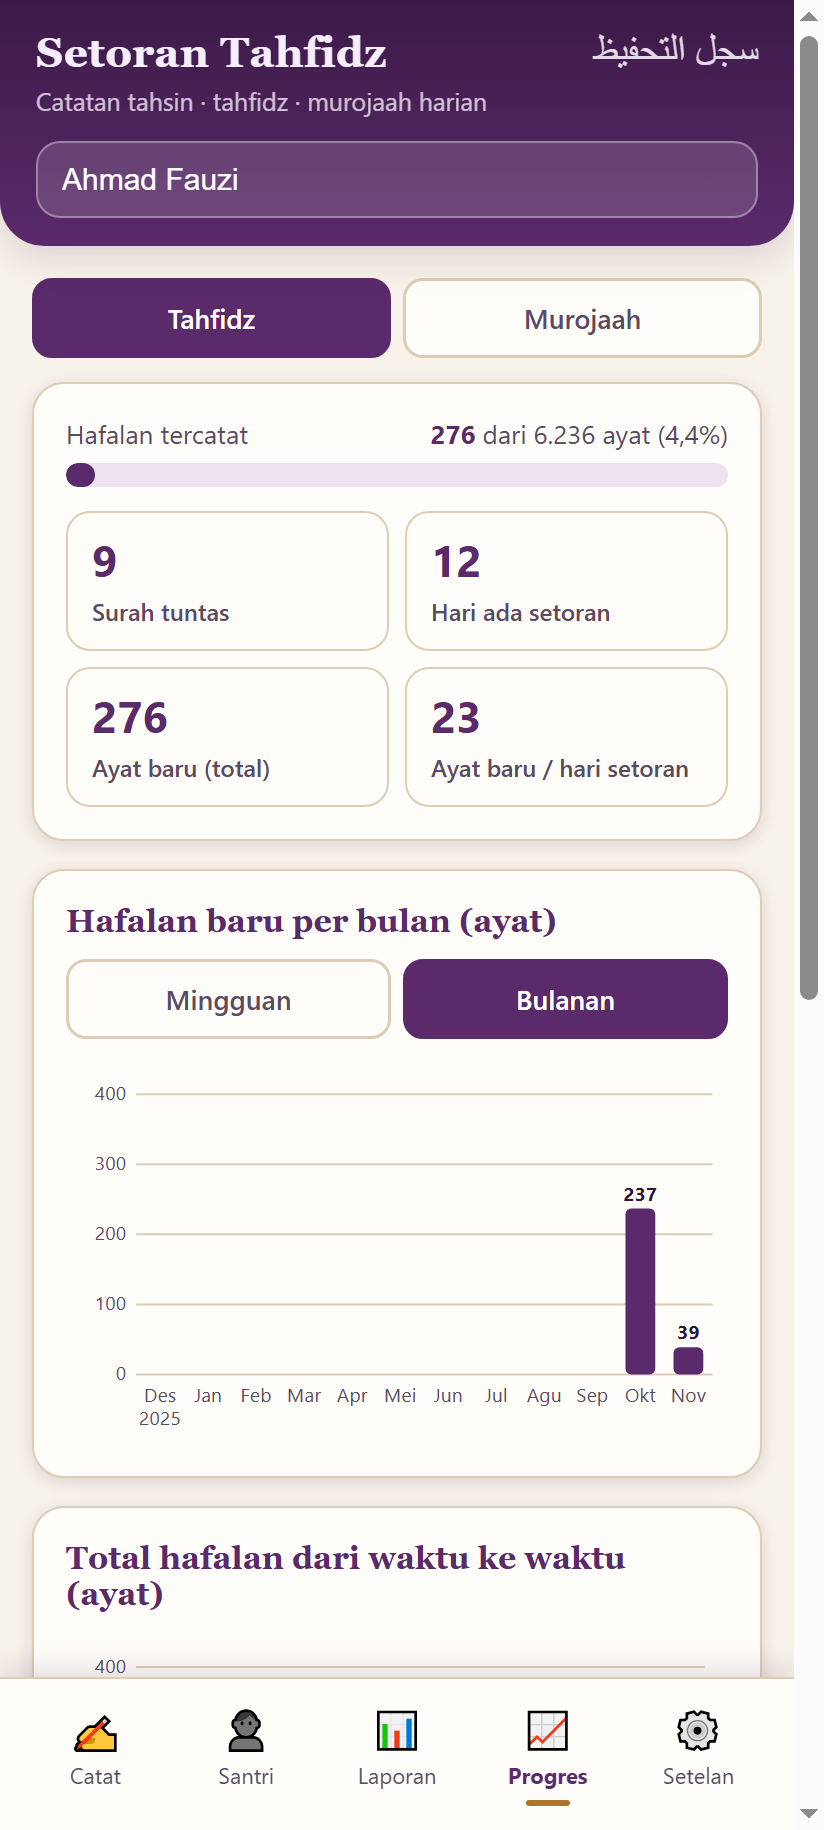
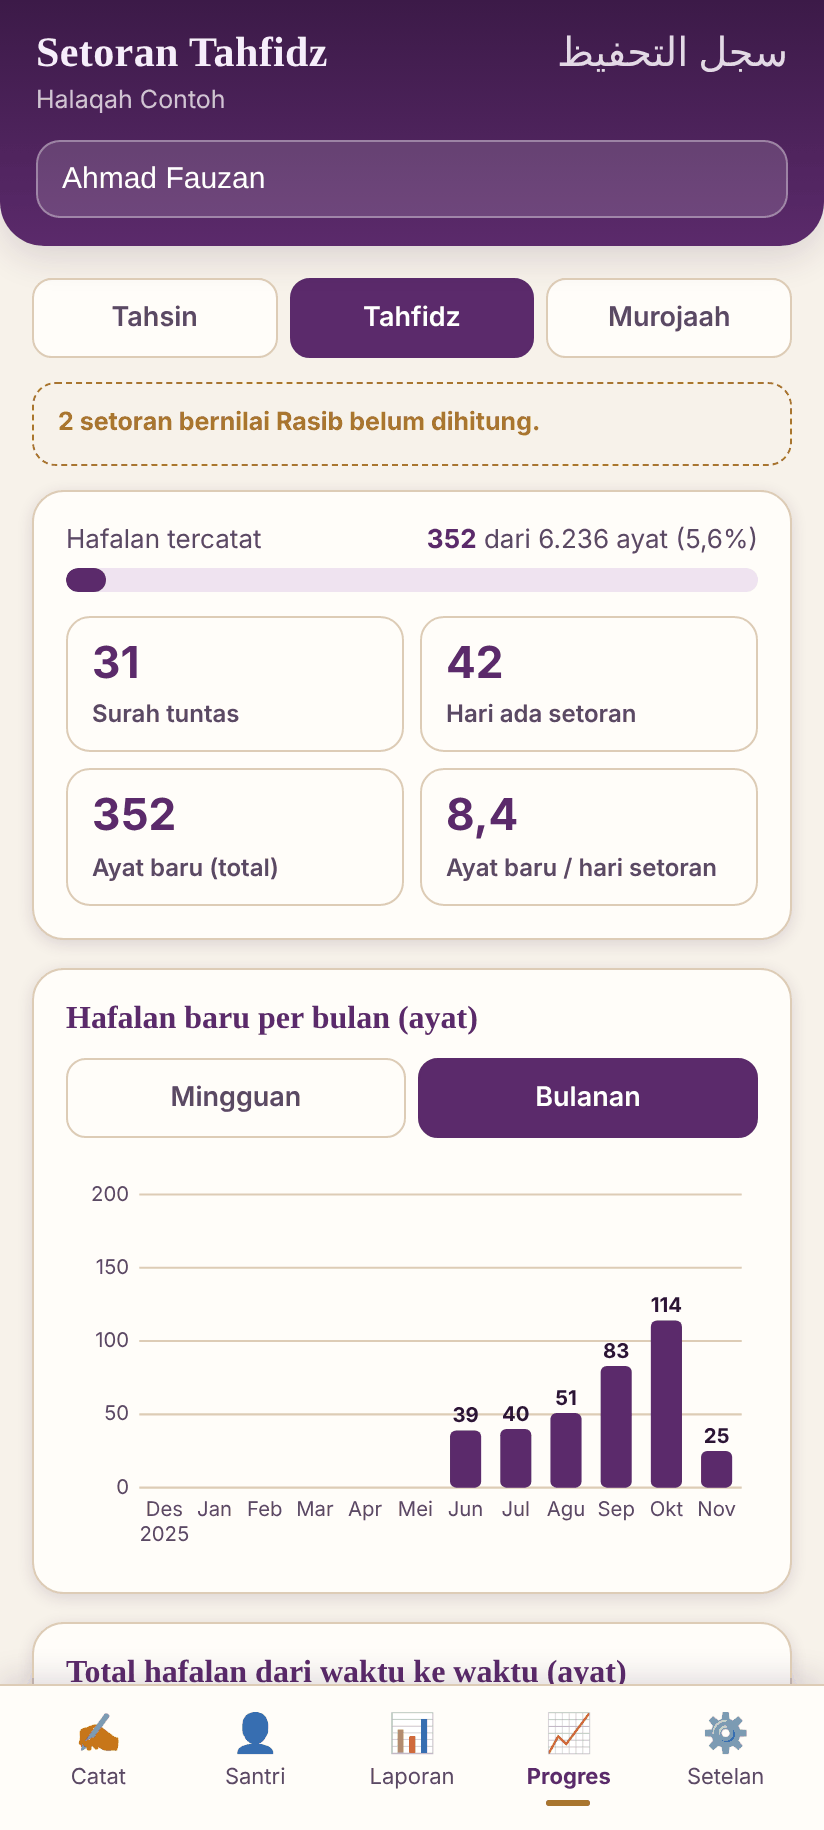
Perbarui README untuk v1.2.0 dan tangkapan layar terbaru
- Tulis ulang README untuk guru: fitur dikelompokkan, cara pakai singkat,
  tabel nilai kelancaran, aturan perhitungan Progres, data dan privasi.
- Perbaiki tabel tangkapan layar (5 gambar, 4 judul kolom) dan ganti semua
  tangkapan layar dengan tampilan v1.2.0 (data fiktif), tambah contoh
  gambar laporan dan sebaran nilai.
- Pindahkan panduan Google Play ke docs/PLAY_STORE.md.
- Tambah bagian tes dan alur rilis (versionCode 1.2.0 -> 120) untuk pengembang.

Claude-Session: https://claude.ai/code/session_014gCVuLcPiL3Dco5abXn4Uk

Changed region(s): [[0.0, 0.0, 1.0, 0.9967], [0.0303, 0.0, 0.5765, 0.0623], [0.6978, 0.218, 0.8799, 0.2492]]

diff --git a/README.md b/README.md
@@ -1,48 +1,121 @@
 # Setoran Tahfidz
 
-[Unduh APK terbaru](https://github.com/abujafar-arsyad/setoran-tahfidz/releases/latest)
+Aplikasi Android untuk **guru tahfidz** mencatat setoran hafalan Al-Qur'an
+santri setiap hari: tahsin, tahfidz, dan murojaah, lengkap dengan nilai
+kelancaran, laporan bulanan, dan diagram progres hafalan.
 
-**Setoran Tahfidz** membantu santri mencatat setoran hafalan Al-Qur'an.
-Aplikasi berjalan secara offline dan menyimpan data di `localStorage`
-perangkat, tanpa backend atau koneksi internet.
+Aplikasi berjalan **sepenuhnya offline**. Tidak perlu akun, tidak ada iklan,
+dan data tidak pernah dikirim ke server mana pun.
 
-Aplikasi web-nya ada di `www/index.html` dan dibungkus menjadi aplikasi
-Android dengan [Capacitor](https://capacitorjs.com/). Proyek ini bisa
-dibangun menjadi APK untuk pengujian atau AAB untuk Google Play Store.
-
-- **Nama tampilan:** Setoran Tahfidz
-- **Application ID:** `id.tahfidz.setoran`
-- **Web dir:** `www/`
-- **Native project:** `android/`
-
-## Fitur
-
-- **Catat setoran harian:** tahsin, tahfidz, murojaah, dan keterangan (Izin, Sakit, Ghoib), dengan navigasi per tanggal. Rentang ayat diisi per baris (bisa lebih dari satu) dan divalidasi dengan jumlah ayat tiap surah; catatan Iqro tetap berupa teks bebas dan tidak dibaca Progres.
-- **Nilai kelancaran:** beri nilai Mumtaz, Jayyid Jiddan, Jayyid, Maqbul, atau Rasib untuk tiap kategori setoran; laporan menampilkan nilai, dan Rasib tidak dihitung dalam progres ayat.
-- **Kelola santri:** tambah, ganti nama, dan hapus santri.
-- **Laporan bulanan:** tabel per bulan dengan total, bisa diunduh sebagai gambar dan diberi watermark lembaga.
-- **Progres:** diagram perkembangan hafalan per santri, dibaca dari rentang ayat terstruktur (surah + ayat awal sampai surah + ayat akhir, bisa lintas surah, mis. Al-Baqarah 200 → Ali 'Imran 23; teks lama tetap terbaca): total ayat dan surah tuntas, hafalan baru per minggu atau bulan, serta total dari waktu ke waktu. Ada juga progres per juz (30 juz, Mushaf Madinah/Hafs; rentang lintas surah/juz dipecah per ayat). Penulisan ayat yang di luar jumlah ayat surah tidak dihitung dan ditandai.
-- **Setelan:** mode terang, gelap, atau otomatis; lima warna tema; ukuran teks; saran nama surah; pengingat cadangan.
-- **Cadangan data:** ekspor dan impor data sebagai file JSON.
-- **Offline:** data tersimpan di perangkat dan aplikasi tidak butuh koneksi internet.
+**[⬇ Unduh APK terbaru](https://github.com/abujafar-arsyad/setoran-tahfidz/releases/latest)** · versi saat ini: 1.2.0 (uji coba) · [Riwayat rilis](https://github.com/abujafar-arsyad/setoran-tahfidz/releases)
 
 ## Tangkapan layar
 
 Semua nama dan catatan pada gambar ini fiktif.
 
-| Catat | Santri | Laporan | Setelan |
-| --- | --- | --- | --- |
-| <img src="docs/screenshots/catat.png" alt="Halaman Catat: form setoran harian" width="200"> | <img src="docs/screenshots/santri.png" alt="Halaman Santri: daftar santri" width="200"> | <img src="docs/screenshots/laporan.png" alt="Halaman Laporan: tabel bulanan" width="200"> | <img src="docs/screenshots/progres.png" alt="Halaman Progres: diagram perkembangan hafalan" width="200"> | <img src="docs/screenshots/setelan.png" alt="Halaman Setelan: tampilan dan lembaga" width="200"> |
+| Catat | Laporan | Progres | Sebaran nilai |
+| :---: | :---: | :---: | :---: |
+| <img src="docs/screenshots/catat.png" alt="Halaman Catat: rentang ayat dan nilai kelancaran" width="200"> | <img src="docs/screenshots/laporan.png" alt="Halaman Laporan: tabel bulanan dengan label nilai" width="200"> | <img src="docs/screenshots/progres.png" alt="Halaman Progres: ringkasan dan diagram hafalan per bulan" width="200"> | <img src="docs/screenshots/progres-nilai.png" alt="Halaman Progres: sebaran nilai per bulan dan progres per juz" width="200"> |
+
+| Santri | Setelan | Gambar laporan (untuk wali santri) |
+| :---: | :---: | :---: |
+| <img src="docs/screenshots/santri.png" alt="Halaman Santri: daftar santri" width="200"> | <img src="docs/screenshots/setelan.png" alt="Halaman Setelan: tampilan, lembaga, dan laporan" width="200"> | <img src="docs/screenshots/laporan-gambar.png" alt="Contoh gambar laporan bulanan yang diunduh" width="300"> |
+
+## Fitur
+
+**Pencatatan harian**
+- Catat tahsin, tahfidz, murojaah, dan keterangan (Izin, Sakit, Ghoib) per tanggal.
+- Rentang ayat diisi per baris: surah dan ayat awal sampai surah dan ayat akhir. Bisa lebih dari satu baris, dan bisa lintas surah (mis. Al-Baqarah 200 → Ali 'Imran 23).
+- Ayat boleh dikosongkan: surah tanpa nomor ayat dihitung satu surah penuh.
+- Nama surah muncul sebagai saran saat mengetik, dan jumlah ayat dicek otomatis (mis. Al-Ikhlas hanya 1–4).
+- Catatan Iqro atau buku lain tetap bisa ditulis sebagai teks bebas.
+
+**Nilai kelancaran**
+- Setiap kategori setoran bisa diberi nilai (tidak wajib):
+
+  | Singkatan | Nilai | | Keterangan |
+  | :---: | --- | :---: | --- |
+  | M | Mumtaz | ممتاز | lulus |
+  | JJ | Jayyid Jiddan | جيد جدا | lulus |
+  | J | Jayyid | جيد | lulus |
+  | Mq | Maqbul | مقبول | lulus |
+  | R | Rasib | راسب | belum lulus |
+
+- Nilai tampil sebagai label berwarna di tabel Laporan dan di gambar laporan.
+
+**Laporan bulanan**
+- Tabel per bulan dengan total Hadir, Izin, Sakit, dan Ghoib. Ketuk satu hari untuk mengedit.
+- Unduh sebagai gambar untuk dikirim ke wali santri, lengkap dengan nama lembaga, nama pengajar, rekap nilai, dan watermark lembaga (opsional).
+
+**Progres hafalan**
+- Ringkasan per santri: ayat tercatat dari 6.236 ayat, surah tuntas, hari setoran, dan rata-rata ayat per hari.
+- Diagram hafalan baru per pekan atau per bulan, total dari waktu ke waktu, dan sebaran nilai per bulan.
+- Progres per surah dan per juz (30 juz, Mushaf Madinah riwayat Hafs).
+- Bisa dilihat untuk Tahsin, Tahfidz, atau Murojaah, dan diunduh sebagai satu gambar.
+
+**Setelan dan data**
+- Mode terang, gelap, atau otomatis; lima warna tema; empat ukuran teks; halaman awal saat aplikasi dibuka.
+- Ekspor dan impor cadangan data (file JSON), plus pengingat cadangan berkala.
+
+## Cara pakai singkat
+
+1. **Tab Santri:** tambahkan nama santri.
+2. **Tab Catat:** pilih santri dan tanggal, isi rentang ayat untuk tahsin, tahfidz, atau murojaah, beri nilai bila perlu, lalu ketuk **Simpan Setoran**.
+3. **Tab Laporan:** lihat rekap bulanan. Ketuk **Unduh Laporan (Gambar)** untuk membuat gambar laporan yang bisa dikirim ke wali santri.
+4. **Tab Progres:** pantau perkembangan hafalan tiap santri. Ketuk **Unduh Progres** untuk menyimpannya sebagai gambar.
+5. **Tab Setelan:** isi nama lembaga dan pengajar, dan ketuk **Ekspor Data** secara rutin untuk mencadangkan data.
+
+## Cara Progres menghitung
+
+- Angka dihitung dari rentang ayat yang dicatat. Ayat yang disetor ulang tidak menambah total hafalan.
+- Setoran Tahfidz bernilai **Rasib** tidak dihitung sampai disetor ulang dengan nilai lulus (atau tanpa nilai).
+- Murojaah dan Tahsin bernilai Rasib tidak masuk total ayat, tetapi harinya tetap terhitung sebagai hari setoran.
+- Catatan Iqro, nomor halaman, atau tulisan seperti "Juz 30 halaman 3" tidak bisa dibaca sebagai ayat. Progres akan menampilkan peringatan untuk catatan seperti ini.
+- Hafalan santri sebelum memakai aplikasi ini tidak ikut terhitung.
+
+## Data dan privasi
+
+- Semua data tersimpan **hanya di HP ini** (`localStorage`). Tidak ada server, akun, iklan, atau pelacak.
+- Cadangan otomatis Android dimatikan, sehingga data **ikut terhapus** bila aplikasi di-uninstall atau datanya dihapus. Karena itu, ekspor cadangan secara rutin dari tab Setelan.
+- Untuk pindah HP, ekspor cadangan di HP lama lalu impor di HP baru.
+- Aplikasi tidak meminta izin khusus apa pun, termasuk izin internet.
+
+Selengkapnya: [Kebijakan Privasi](PRIVACY_POLICY.md).
 
 ## Tentang proyek
 
-- **Pemilik:** Abu Ja'far Putra Arsad
-- **Peran saya:** Saya menentukan fitur dan menguji aplikasi ini. Kode ditulis dengan bantuan AI.
-- **Status:** Uji coba. Aplikasi tersedia sebagai APK debug dan belum dirilis ke Google Play.
-- **Privasi:** aplikasi tidak mengumpulkan data pengguna. Lihat [PRIVACY_POLICY.md](PRIVACY_POLICY.md).
+- **Pemilik:** Abu Ja'far Putra Arsad, pengajar tahfidz Al-Qur'an
+- **Peran saya:** menentukan fitur dan menguji aplikasi ini. Kode ditulis dengan bantuan AI.
+- **Status:** uji coba. Tersedia sebagai APK debug dan belum dirilis ke Google Play.
 - **Lisensi:** [MIT](LICENSE)
 
-## Menjalankan di browser
+---
+
+## Untuk pengembang
+
+Aplikasi web-nya ada di satu file, `www/index.html`, dan dibungkus menjadi
+aplikasi Android dengan [Capacitor](https://capacitorjs.com/).
+
+- **Application ID:** `id.tahfidz.setoran`
+- **Web dir:** `www/`
+- **Native project:** `android/`
+
+### Struktur proyek
+
+```
+www/index.html           # Aplikasi web (HTML + CSS + JS dalam satu file)
+tests/                   # Tes logika rentang ayat, progres, dan nilai (npm test)
+docs/screenshots/        # Tangkapan layar untuk README
+docs/PLAY_STORE.md       # Panduan rilis ke Google Play Store
+capacitor.config.json    # Konfigurasi Capacitor (appId, appName, webDir)
+android/                 # Proyek Android native
+assets-src/              # Sumber gambar ikon & splash (generate_icon.py)
+resources/               # Input untuk @capacitor/assets
+release-signing/         # Panduan membuat upload keystore & signing config
+PRIVACY_POLICY.md        # Kebijakan privasi
+```
+
+### Menjalankan di browser
 
 `www/index.html` bisa dibuka langsung di browser:
 
@@ -56,49 +129,22 @@ Jika browser membatasi akses melalui `file://`, jalankan server lokal:
 npx serve www
 ```
 
-## Struktur proyek
-
-```
-www/index.html          # Aplikasi web (HTML+CSS+JS inline, self-contained)
-capacitor.config.json    # Konfigurasi Capacitor (appId, appName, webDir)
-android/                 # Proyek Android native (dibuat oleh `npx cap add android`)
-assets-src/              # Source gambar 1024x1024 untuk ikon & splash (generate_icon.py)
-resources/               # Input untuk @capacitor/assets (icon.png, splash.png, dst.)
-release-signing/         # Panduan membuat upload keystore & signing config (README.md)
-PRIVACY_POLICY.md        # Kebijakan privasi (dibutuhkan untuk Play Store)
-```
-
-## Setup awal
-
-Perintah berikut sudah dijalankan untuk menyiapkan proyek. Jalankan lagi
-jika ingin mengulang setup:
+### Tes
 
 ```powershell
-npm install
-npx cap init "Setoran Tahfidz" "id.tahfidz.setoran" --web-dir www
-npx cap add android
-npx capacitor-assets generate --android   # dari resources/icon.png & resources/splash.png
+npm test
 ```
 
-## Membuka proyek di Android Studio
+Jalankan sebelum setiap rilis. Semua tes harus lulus.
 
-1. Install [Android Studio](https://developer.android.com/studio), termasuk
-   Android SDK dan JDK yang kompatibel.
-2. Di Android Studio, pilih **File → Open** lalu buka folder `android/`.
-3. Tunggu proses Gradle sync selesai.
-4. Klik **Run ▶** untuk menjalankan aplikasi di emulator atau perangkat.
-   Gunakan menu **Build** untuk membuat APK atau AAB.
-
-Setelah mengubah `www/index.html`, jalankan `npx cap sync android` agar
-perubahannya disalin ke `android/app/src/main/assets/public`.
-
-## Membuat Debug APK
+### Membuat Debug APK
 
 Gunakan JDK 21 dan Android SDK dengan build-tools serta platform yang sesuai
 `android/variables.gradle` (saat ini `compileSdk`/`targetSdk` 36 dan
 `minSdk` 24).
 
 ```powershell
+npx cap sync android
 cd android
 $env:JAVA_HOME = "<path ke JDK 21>"
 .\gradlew.bat assembleDebug
@@ -106,10 +152,18 @@ $env:JAVA_HOME = "<path ke JDK 21>"
 
 Output: `android/app/build/outputs/apk/debug/app-debug.apk`
 
-Build ini telah berhasil dijalankan di lingkungan pengembangan proyek dengan
-JDK Temurin 21 dan Android SDK build-tools 35/36.
+`npx cap sync android` wajib dijalankan setiap kali `www/index.html` berubah,
+agar perubahannya disalin ke `android/app/src/main/assets/public`.
 
-## Membuat Release AAB
+### Alur rilis
+
+1. Naikkan versi di `android/app/build.gradle`. Polanya: `versionName "1.2.0"` → `versionCode 120`.
+2. Jalankan `npm test`, lalu build APK seperti di atas.
+3. Buat GitHub Release dengan tag `vX.Y.Z-debug` dari `main`, unggah APK
+   bernama `setoran-tahfidz-vX.Y.Z-debug.apk`, dan tandai sebagai
+   **Latest release** agar tautan unduh di atas ikut berpindah.
+
+### Membuat Release AAB
 
 Google Play mewajibkan **Android App Bundle (.aab)** yang ditandatangani
 dengan upload key milik Anda. Ikuti petunjuk di `release-signing/README.md`
@@ -125,52 +179,22 @@ Output: `android/app/build/outputs/bundle/release/app-release.aab`
 > Keystore tidak disertakan di repo dan jangan di-commit. Buat keystore
 > sendiri dan simpan dengan aman.
 
-## Rilis ke Google Play Store
+Langkah lengkap ke Google Play ada di [docs/PLAY_STORE.md](docs/PLAY_STORE.md).
 
-Ikuti langkah berikut untuk menyiapkan aplikasi:
+### Membuka proyek di Android Studio
 
-1. Buat akun developer di [Google Play Console](https://play.google.com/console/).
-   Biaya pendaftaran satu kali sebesar **USD 25** dan verifikasi identitas
-   berlaku.
-2. Pilih **Create app**, lalu isi nama "Setoran Tahfidz", bahasa Indonesia,
-   kategori (misalnya Pendidikan/Education), dan status gratis (Free).
-3. Lengkapi Store Listing:
-   - Deskripsi singkat maksimal 80 karakter dan deskripsi lengkap maksimal
-     4000 karakter, dalam Bahasa Indonesia. Jelaskan pencatatan setoran,
-     penyimpanan lokal/offline, serta bahwa aplikasi tidak memakai iklan
-     atau akun.
-   - Minimal **2 screenshot ponsel** dalam format PNG/JPEG, rasio 16:9 atau
-     portrait, sisi terpanjang 320–3840 px. Ambil screenshot dari emulator
-     atau perangkat.
-   - **Feature graphic** berukuran 1024x500 px.
-   - Ikon listing berukuran 512x512 px. Ekspor `assets-src/icon-1024.png`
-     lalu ubah ukurannya; ikon adaptif hasil build tidak menggantikan ikon
-     listing ini.
-4. Isi **Content Rating Questionnaire** sesuai kondisi aplikasi untuk
-   mendapatkan rating usia.
-5. Isi **Data Safety form** sesuai perilaku aplikasi: data tidak dikumpulkan
-   atau dibagikan dan hanya tersimpan di perangkat (`localStorage`), tanpa
-   dikirim ke server. Gunakan `PRIVACY_POLICY.md` sebagai referensi.
-6. Publikasikan `PRIVACY_POLICY.md` di halaman web publik, misalnya GitHub
-   Pages atau hosting statis lain. Masukkan URL-nya di **App content →
-   Privacy Policy**.
-7. Mulai dari **Internal testing** melalui **Release → Testing → Internal
-   testing → Create new release**, lalu tambahkan email penguji.
-8. Unggah `app-release.aab` hasil `bundleRelease` yang sudah ditandatangani.
-9. Lengkapi rollout dan release notes, lalu kirim untuk ditinjau Google.
-   Setelah pengujian internal, Anda bisa mempromosikan rilis ke **Production**;
-   rilis ini juga perlu ditinjau Google.
+1. Install [Android Studio](https://developer.android.com/studio), termasuk
+   Android SDK dan JDK yang kompatibel.
+2. Pilih **File → Open** lalu buka folder `android/`.
+3. Tunggu proses Gradle sync selesai, lalu klik **Run ▶** untuk menjalankan
+   aplikasi di emulator atau perangkat.
 
-Pembuatan akun, verifikasi identitas, pembayaran, screenshot dari perangkat,
-dan persetujuan rilis harus dilakukan sendiri melalui akun Google Play Console.
-
-## Ikon dan splash screen
+### Ikon dan splash screen
 
 Ikon dan splash screen saat ini masih placeholder: latar ungu plum
 (`#5b2a6b`), motif buku terbuka, tanda centang emas, dan monogram "ST".
 File dibuat oleh `assets-src/generate_icon.py` (Python + Pillow), lalu
-`@capacitor/assets` menghasilkan ikon mipmap ldpi–xxxhdpi, adaptive icon,
-serta splash screen untuk berbagai densitas dan orientasi.
+`@capacitor/assets` menghasilkan ikon untuk semua densitas.
 
 Untuk memakai desain sendiri, ganti `resources/icon.png`,
 `resources/icon-foreground.png`, `resources/icon-background.png`, dan
@@ -179,8 +203,3 @@ Untuk memakai desain sendiri, ganti `resources/icon.png`,
 ```powershell
 npx capacitor-assets generate --android
 ```
-
-## Izin aplikasi
-
-Aplikasi ini tidak meminta izin khusus. Karena berjalan offline,
-`AndroidManifest.xml` tidak berisi izin `INTERNET` atau izin lainnya.

diff --git a/docs/PLAY_STORE.md b/docs/PLAY_STORE.md
@@ -1,0 +1,45 @@
+# Rilis ke Google Play Store
+
+Panduan ini melengkapi bagian **Untuk pengembang** di [README](../README.md).
+Sebelum mulai, buat AAB bertanda tangan resmi (lihat
+[release-signing/README.md](../release-signing/README.md)) dan pastikan
+`versionCode` sudah dinaikkan.
+
+## Langkah
+
+1. Buat akun developer di [Google Play Console](https://play.google.com/console/).
+   Biaya pendaftaran satu kali sebesar **USD 25** dan verifikasi identitas
+   berlaku.
+2. Pilih **Create app**, lalu isi nama "Setoran Tahfidz", bahasa Indonesia,
+   kategori (misalnya Pendidikan/Education), dan status gratis (Free).
+3. Lengkapi Store Listing:
+   - Deskripsi singkat maksimal 80 karakter dan deskripsi lengkap maksimal
+     4000 karakter, dalam Bahasa Indonesia. Jelaskan pencatatan setoran,
+     nilai kelancaran, laporan bulanan, progres hafalan, penyimpanan
+     lokal/offline, serta bahwa aplikasi tidak memakai iklan atau akun.
+   - Minimal **2 screenshot ponsel** dalam format PNG/JPEG, rasio 16:9 atau
+     portrait, sisi terpanjang 320–3840 px. Tangkapan layar di
+     `docs/screenshots/` bisa dipakai sebagai awal.
+   - **Feature graphic** berukuran 1024x500 px.
+   - Ikon listing berukuran 512x512 px. Ekspor `assets-src/icon-1024.png`
+     lalu ubah ukurannya; ikon adaptif hasil build tidak menggantikan ikon
+     listing ini.
+4. Isi **Content Rating Questionnaire** sesuai kondisi aplikasi untuk
+   mendapatkan rating usia.
+5. Isi **Data Safety form** sesuai perilaku aplikasi: data tidak dikumpulkan
+   atau dibagikan dan hanya tersimpan di perangkat (`localStorage`), tanpa
+   dikirim ke server. Cadangan otomatis Android dimatikan
+   (`android:allowBackup="false"`). Gunakan
+   [PRIVACY_POLICY.md](../PRIVACY_POLICY.md) sebagai referensi.
+6. Publikasikan `PRIVACY_POLICY.md` di halaman web publik, misalnya GitHub
+   Pages atau hosting statis lain. Masukkan URL-nya di **App content →
+   Privacy Policy**.
+7. Mulai dari **Internal testing** melalui **Release → Testing → Internal
+   testing → Create new release**, lalu tambahkan email penguji.
+8. Unggah `app-release.aab` hasil `bundleRelease` yang sudah ditandatangani.
+9. Lengkapi rollout dan release notes, lalu kirim untuk ditinjau Google.
+   Setelah pengujian internal, Anda bisa mempromosikan rilis ke
+   **Production**; rilis ini juga perlu ditinjau Google.
+
+Pembuatan akun, verifikasi identitas, pembayaran, screenshot dari perangkat,
+dan persetujuan rilis harus dilakukan sendiri melalui akun Google Play Console.
